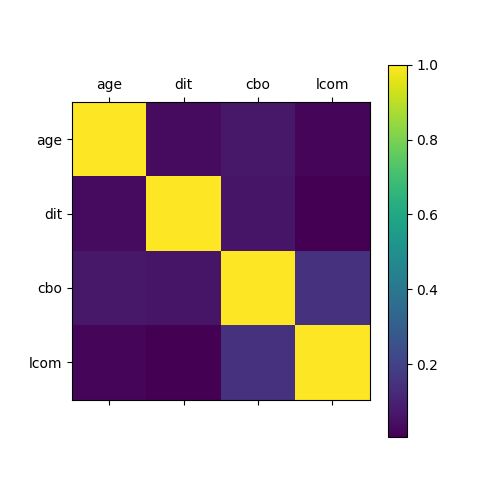
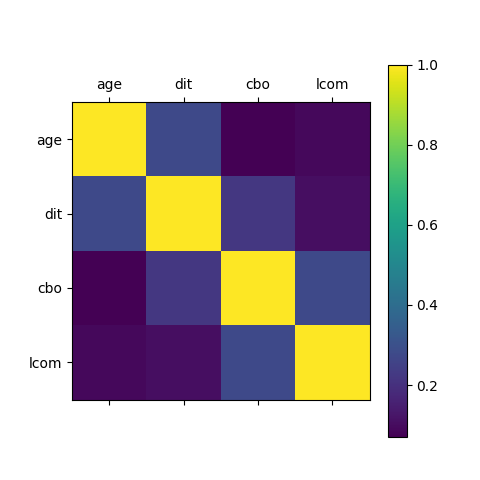
Mudança no teste de correlação

diff --git a/analizer.py b/analizer.py
@@ -12,14 +12,14 @@ x_axis = ['stars', 'age', 'releases', 'loc']
 y_axis = ['dit', 'cbo', 'lcom']
 
 for x in x_axis:
-    for y in y_axis:
-        print('Relação', x, y)
-        sns.pairplot(data=df, y_vars=y, x_vars=x, kind="reg", height=10)
-        plt.show()
-        pd.plotting.scatter_matrix(df[[x, y]], diagonal='kde')
-        plt.show()
+    # for y in y_axis:
+    #     print('Relação', x, y)
+    #     sns.pairplot(data=df, y_vars=y, x_vars=x, kind="reg", height=10)
+    #     plt.show()
+    #     pd.plotting.scatter_matrix(df[[x, y]], diagonal='kde')
+    #     plt.show()
     cols = [x] + y_axis
-    corr = df[cols].corr()
+    corr = df[cols].corr('spearman')
     print(corr)
     plt.matshow(corr)
     plt.xticks(range(len(cols)), cols)

diff --git a/README.md b/README.md
@@ -4,36 +4,37 @@
 
 ### Correlação popularidade:
 
-|       | stars    | dit      | cbo      | lcom     |
-|-------|----------|----------|----------|----------|
-| stars | 1.000000 | 0.081059 | -0.053872| -0.007743|
-| dit   | 0.081059 | 1.000000 | 0.061617 | 0.005451 |
-| cbo   | -0.053872| 0.061617 | 1.000000 | 0.148668 |
-| lcom  | -0.007743| 0.005451 | 0.148668 | 1.000000 |
+|       | stars     | dit      | cbo       | lcom      |
+| ----- | --------- | -------- | --------- | --------- |
+| stars | 1.000000  | 0.126130 | -0.002801 | -0.016717 |
+| dit   | 0.126130  | 1.000000 | 0.219623  | 0.106683  |
+| cbo   | -0.002801 | 0.219623 | 1.000000  | 0.274818  |
+| lcom  | -0.016717 | 0.106683 | 0.274818  | 1.000000  |
+
 
 ### Correlação idade:
 
-|       | age      | dit      | cbo      | lcom     |
-|-------|----------|----------|----------|----------|
-| age   | 1.000000 | 0.034615 | 0.067805 | 0.022683 |
-| dit   | 0.034615 | 1.000000 | 0.061617 | 0.005451 |
-| cbo   | 0.067805 | 0.061617 | 1.000000 | 0.148668 |
-| lcom  | 0.022683 | 0.005451 | 0.148668 | 1.000000 |
+|      | age      | dit      | cbo      | lcom     |
+| ---- | -------- | -------- | -------- | -------- |
+| age  | 1.000000 | 0.276884 | 0.070689 | 0.092109 |
+| dit  | 0.276884 | 1.000000 | 0.219623 | 0.106683 |
+| cbo  | 0.070689 | 0.219623 | 1.000000 | 0.274818 |
+| lcom | 0.092109 | 0.106683 | 0.274818 | 1.000000 |
 
 ### Correlação atividade:
 
-|         | releases | dit      | cbo      | lcom     |
-|---------|----------|----------|----------|----------|
-| releases| 1.000000 | 0.125211 | 0.161193 |-0.021593 |
-| dit     | 0.125211 | 1.000000 | 0.061617 | 0.005451 |
-| cbo     | 0.161193 | 0.061617 | 1.000000 | 0.148668 |
-| lcom    |-0.021593 | 0.005451 | 0.148668 | 1.000000 |
+|          | releases | dit      | cbo      | lcom     |
+| -------- | -------- | -------- | -------- | -------- |
+| releases | 1.000000 | 0.363293 | 0.230895 | 0.051887 |
+| dit      | 0.363293 | 1.000000 | 0.219623 | 0.106683 |
+| cbo      | 0.230895 | 0.219623 | 1.000000 | 0.274818 |
+| lcom     | 0.051887 | 0.106683 | 0.274818 | 1.000000 |
 
 ### Correlação tamanho:
 
-|       | loc      | dit      | cbo      | lcom     |
-|-------|----------|----------|----------|----------|
-| loc   | 1.000000 | 0.421729 | 0.136233 | 0.029911 |
-| dit   | 0.421729 | 1.000000 | 0.061617 | 0.005451 |
-| cbo   | 0.136233 | 0.061617 | 1.000000 | 0.148668 |
-| lcom  | 0.029911 | 0.005451 | 0.148668 | 1.000000 |
+|      | loc      | dit      | cbo      | lcom     |
+| ---- | -------- | -------- | -------- | -------- |
+| loc  | 1.000000 | 0.799229 | 0.241092 | 0.122350 |
+| dit  | 0.799229 | 1.000000 | 0.219623 | 0.106683 |
+| cbo  | 0.241092 | 0.219623 | 1.000000 | 0.274818 |
+| lcom | 0.122350 | 0.106683 | 0.274818 | 1.000000 |
